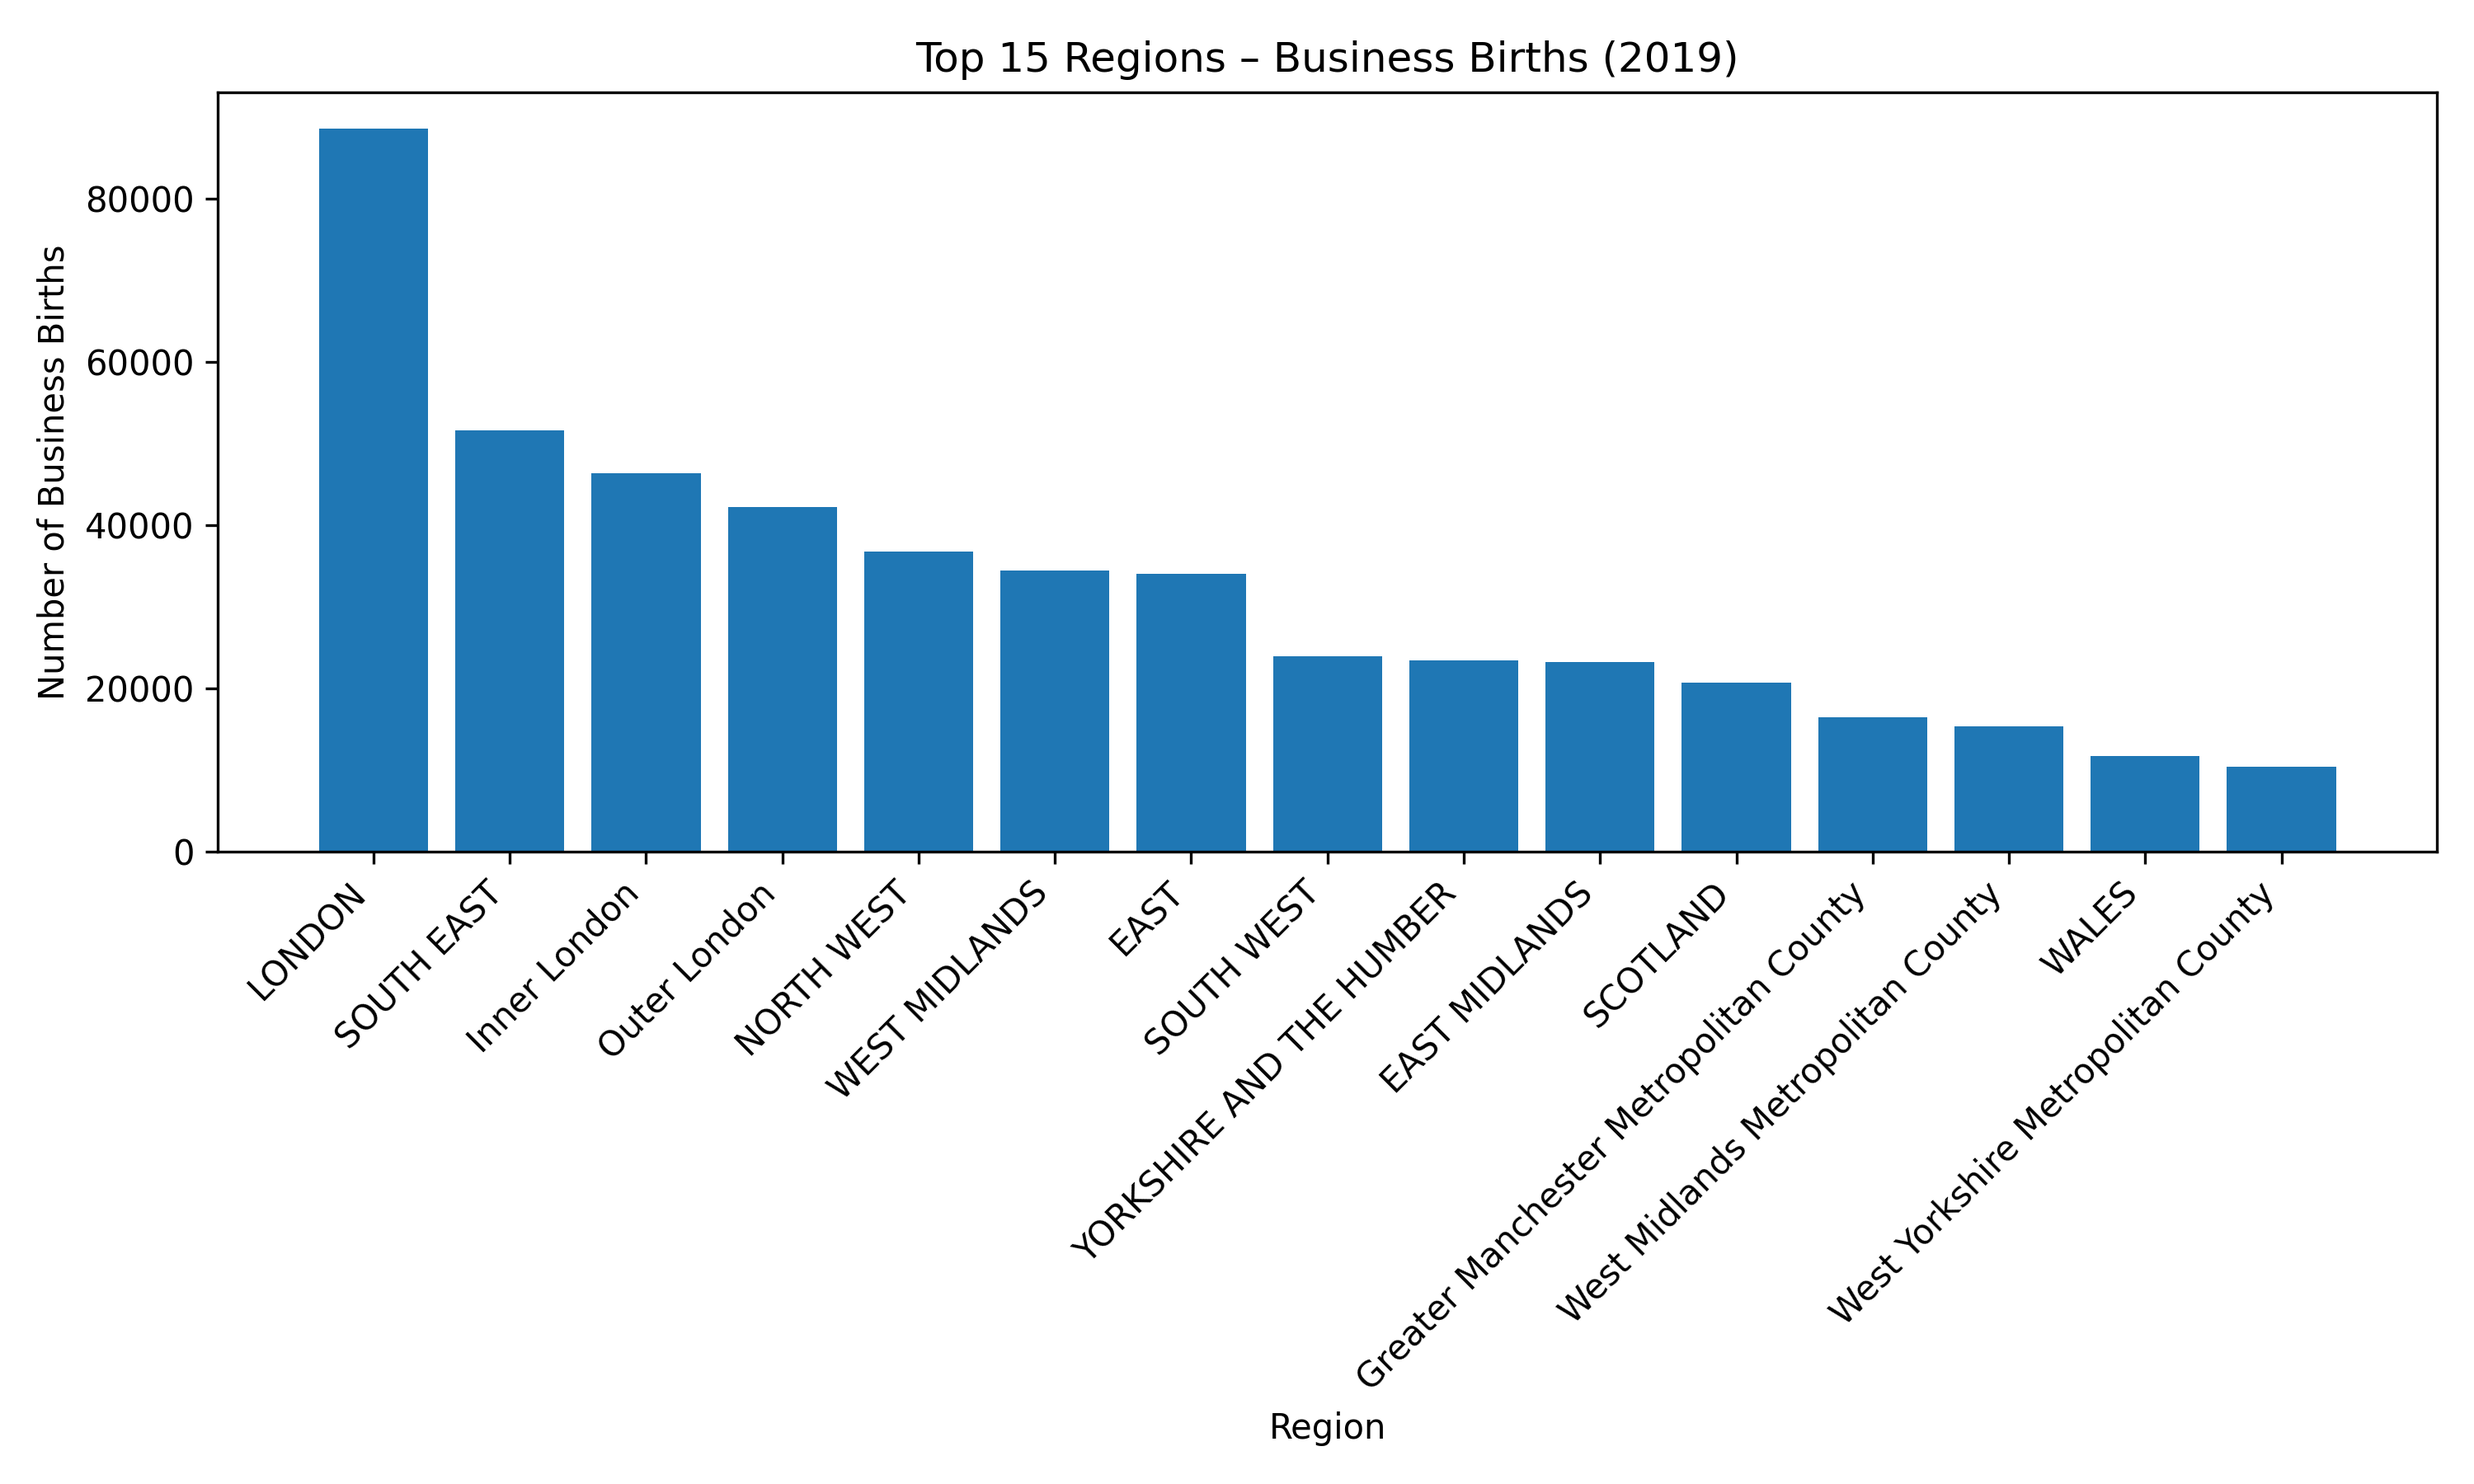
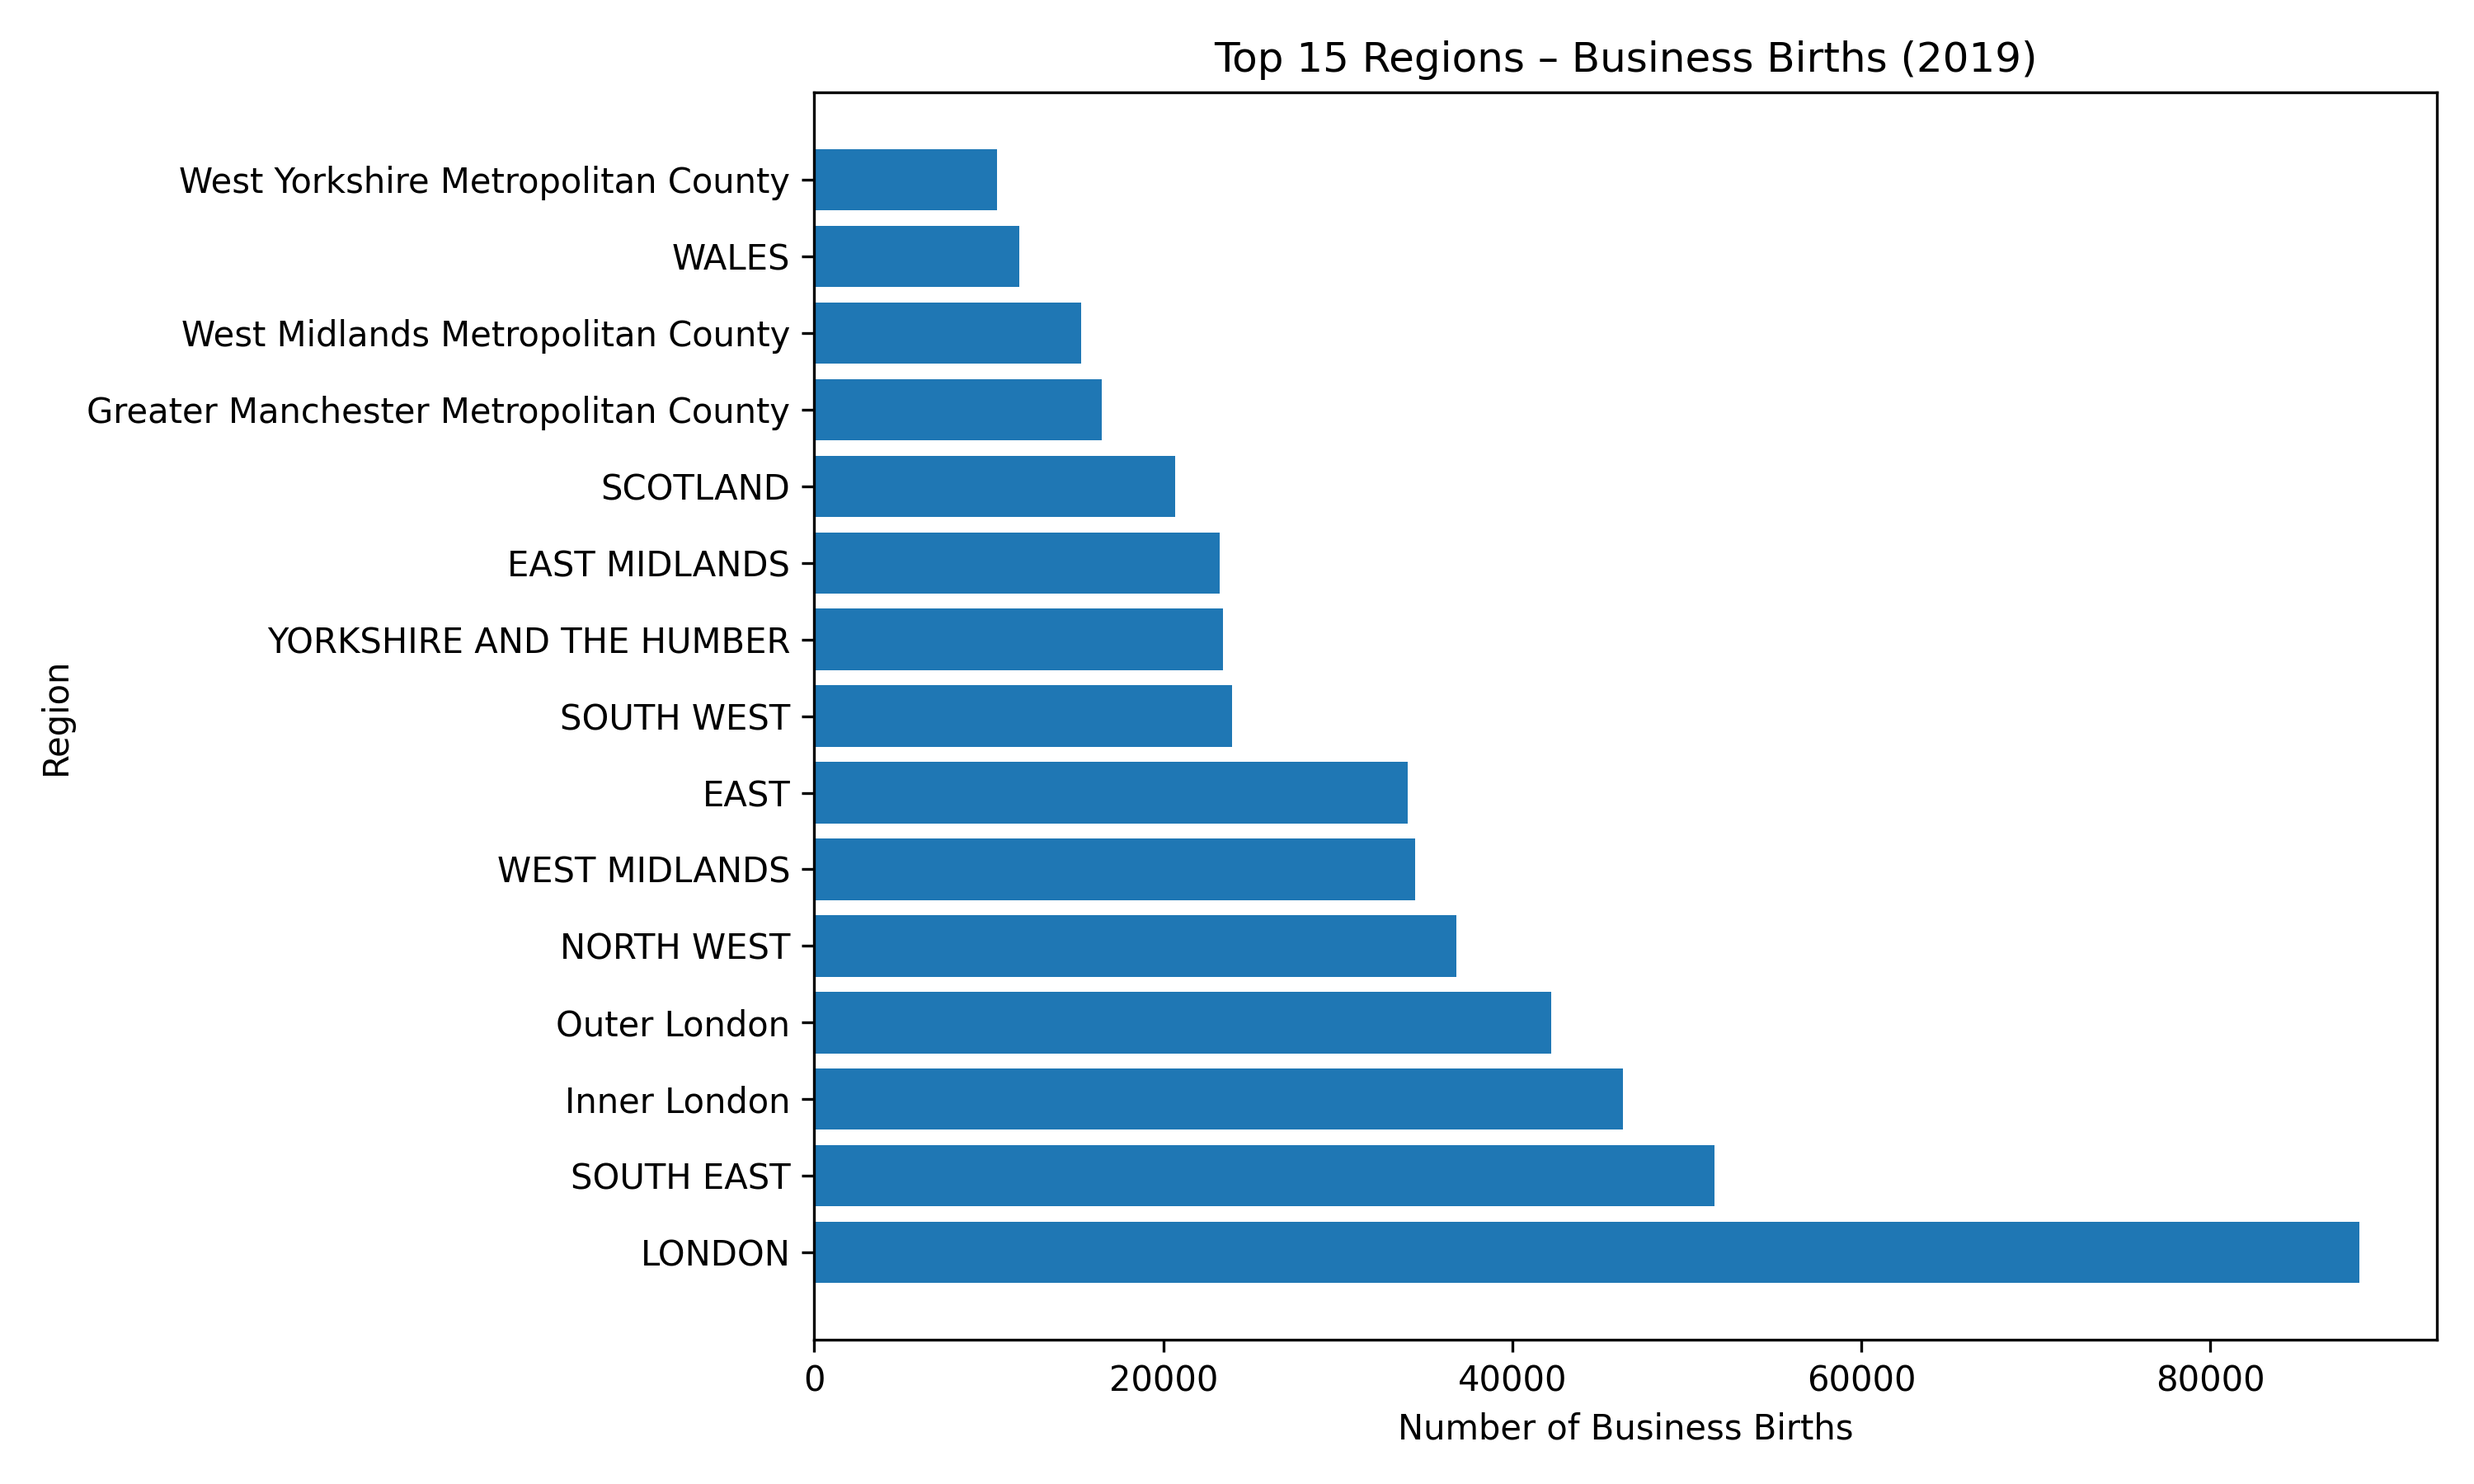
editting the 2019 bar chart to also be horizontal for easier comparison

diff --git a/plots/bar_chart_2019.py b/plots/bar_chart_2019.py
@@ -17,11 +17,10 @@ top_n = min(15, len(df))
 df = df.head(top_n)
 
 plt.figure(figsize=(10, 6))
-plt.bar(df["Geography Name"], df["Number of Business Births (2019)"])
-plt.xlabel("Region")
-plt.ylabel("Number of Business Births")
+plt.barh(df["Geography Name"], df["Number of Business Births (2019)"])
+plt.xlabel("Number of Business Births")
+plt.ylabel("Region")
 plt.title(f"Top {top_n} Regions – Business Births (2019)")
-plt.xticks(rotation=45, ha="right")
 plt.tight_layout()
 
 plots = PROJECT_ROOT / "plots"
